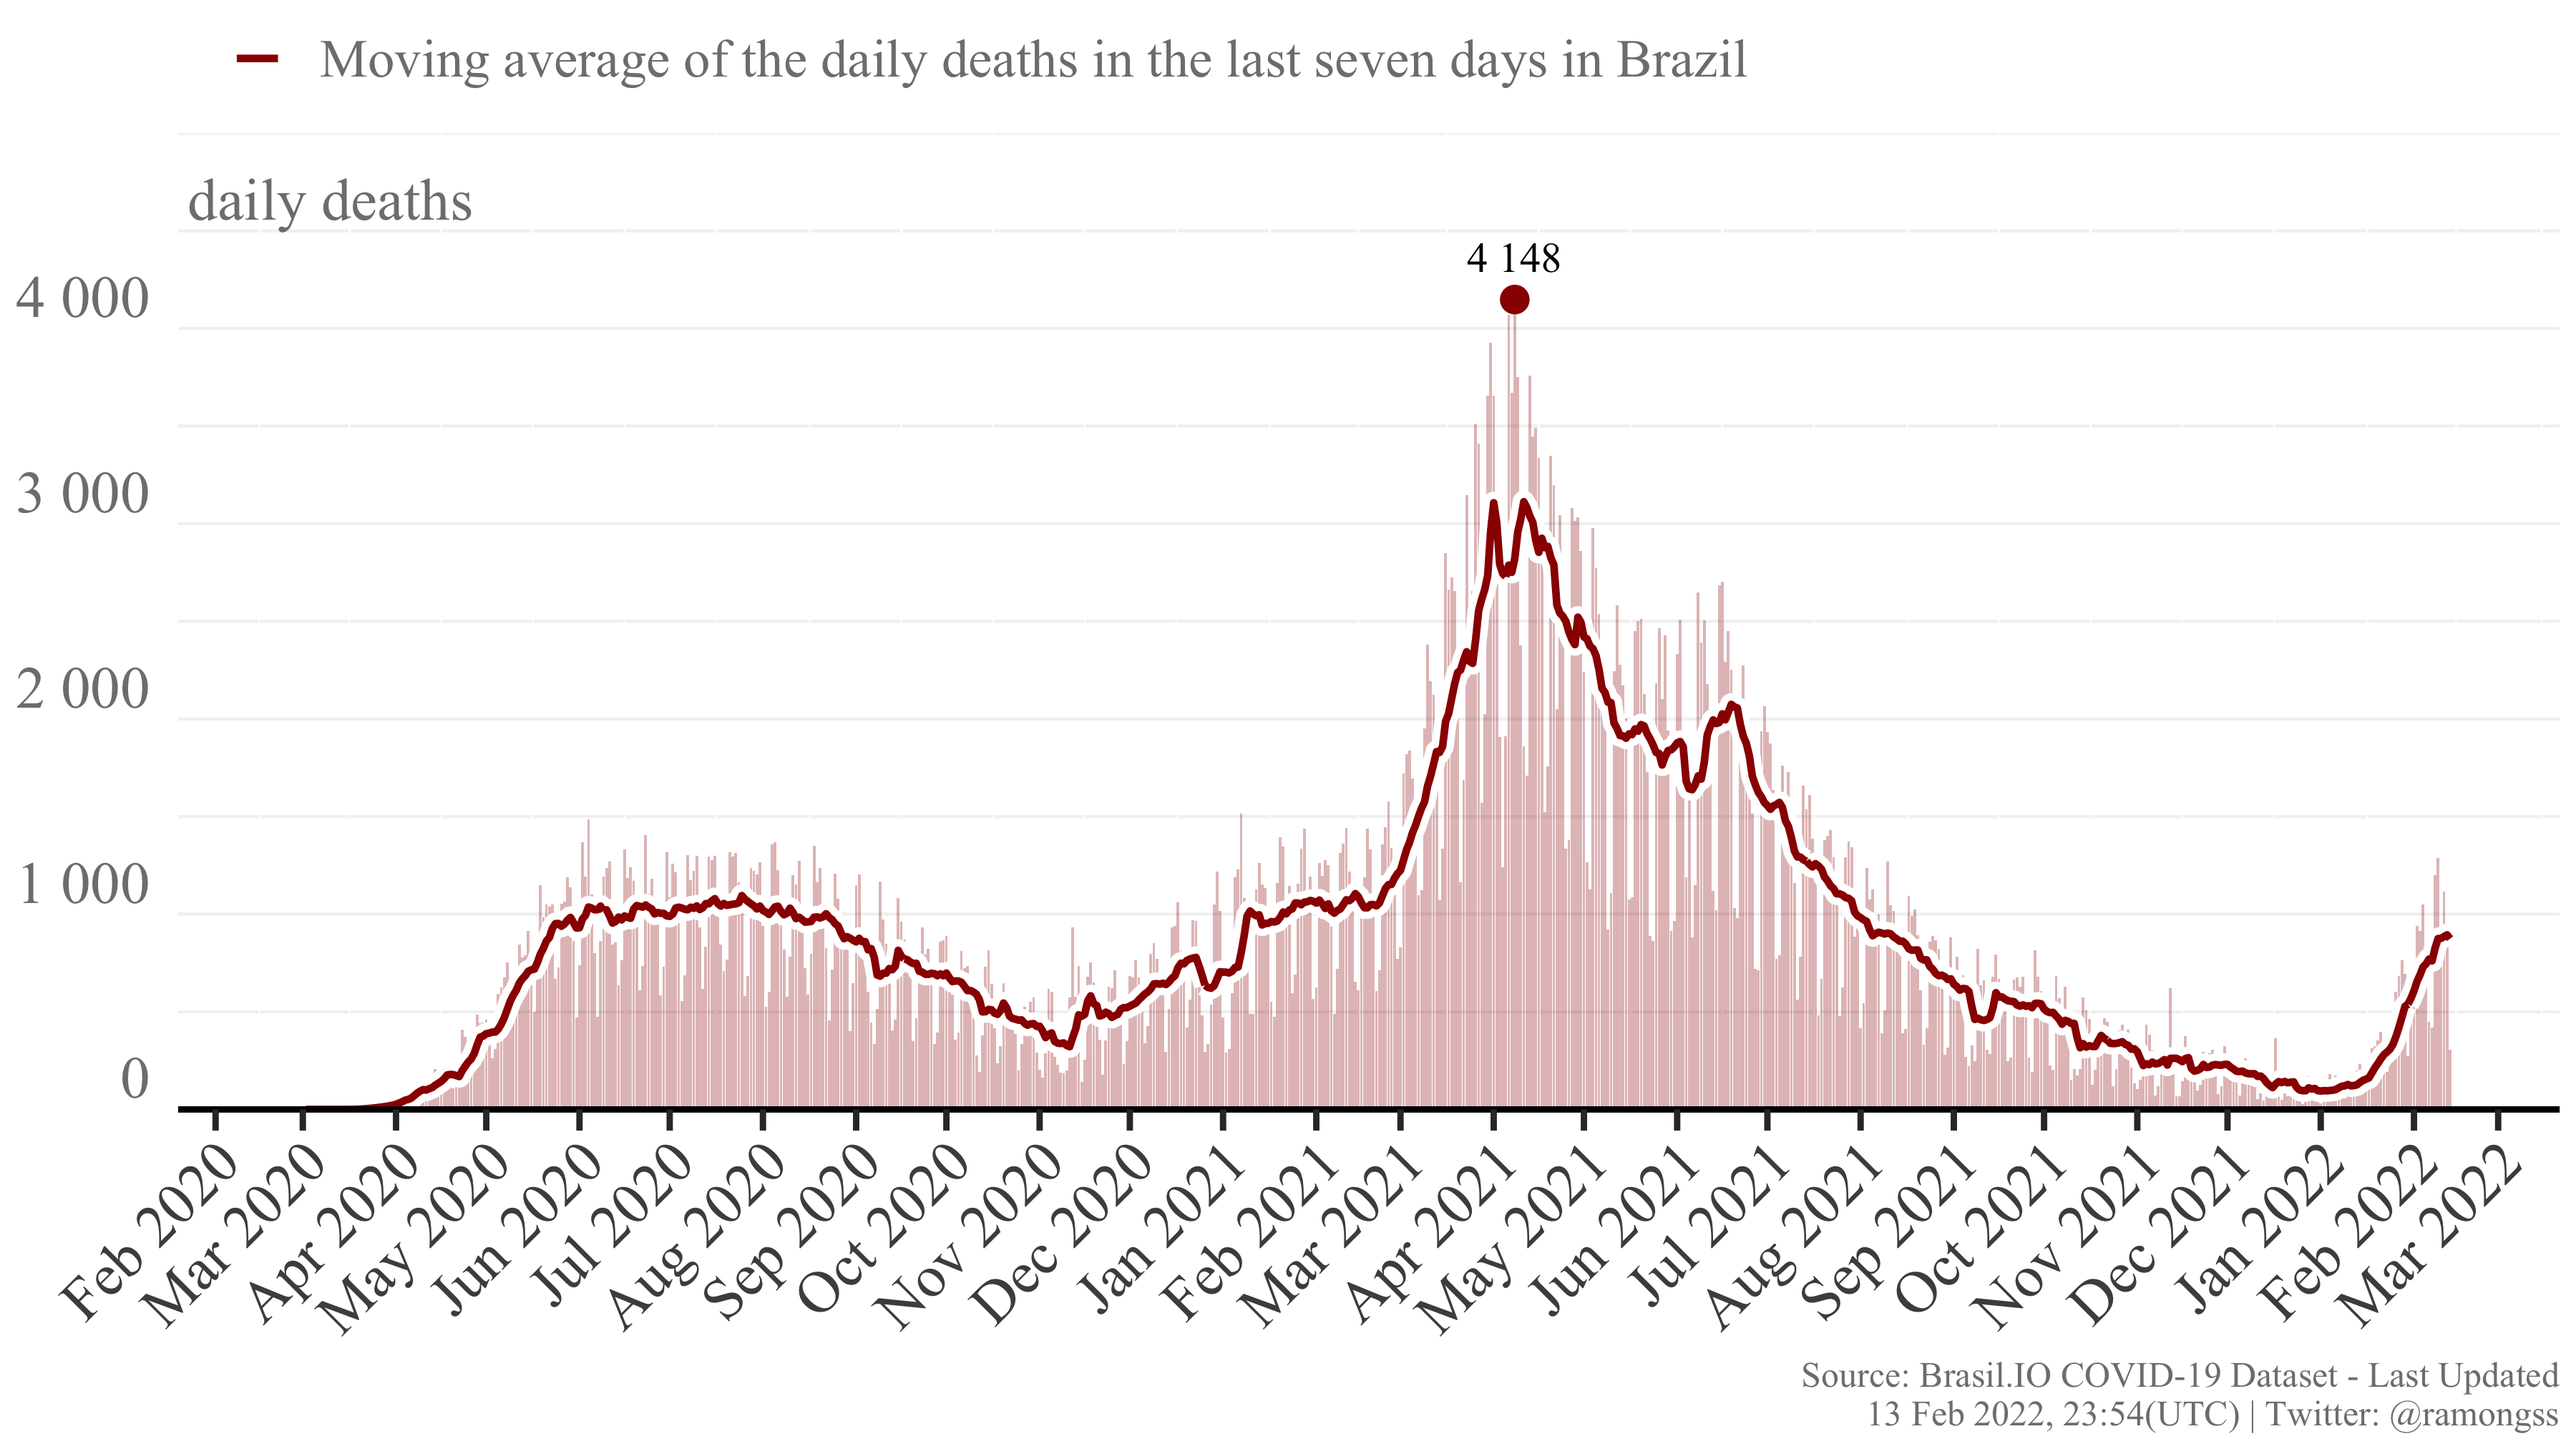
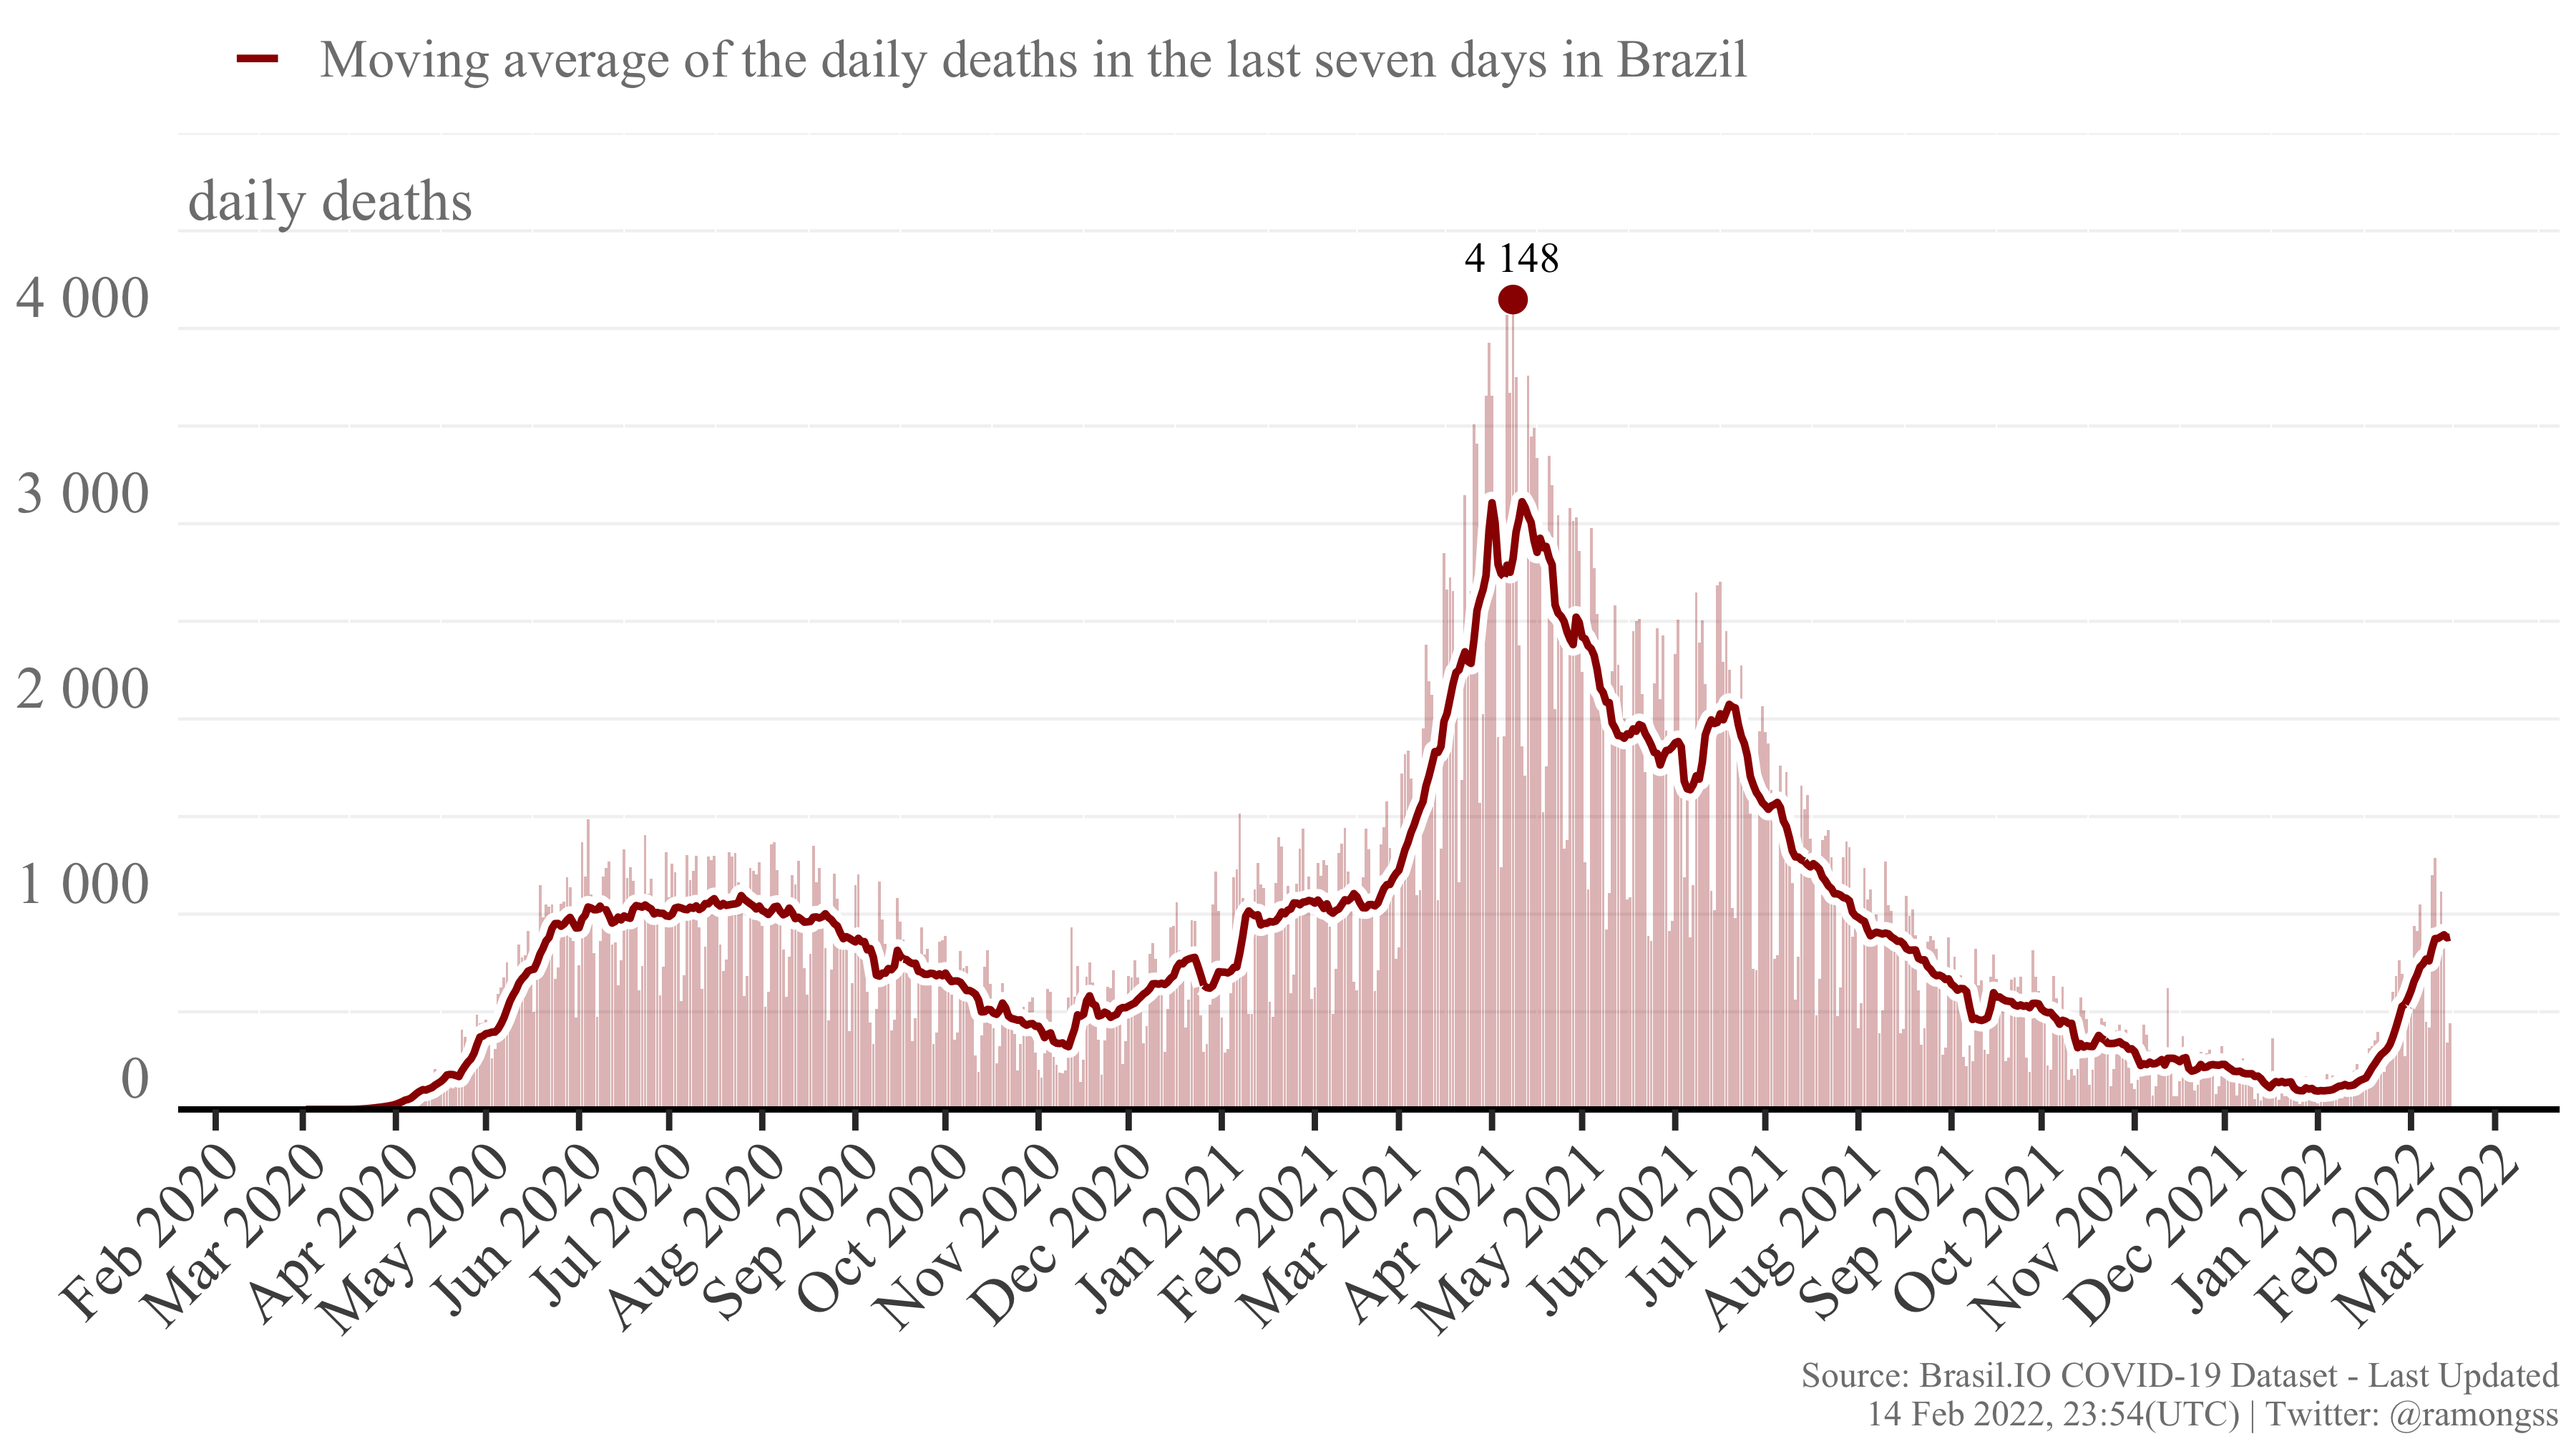
Re-build README.Rmd

diff --git a/README.md b/README.md
@@ -27,8 +27,8 @@ download_brasilio_table <- function(dataset = "covid19", table_name){
 
 ## COVID-19 Confirmed cases
 
-Currently, Brazil has a total of **27,492,904** confirmed cases at **13
-Feb, 2022**, with **53,145** new confirmed cases. The daily maximum
+Currently, Brazil has a total of **27,552,267** confirmed cases at **14
+Feb, 2022**, with **56,880** new confirmed cases. The daily maximum
 incidence was **285,451** confirmed cases at **03 Feb, 2022**. Here
 follows the Figure showing the confirmed case incidence as the bars, and
 the line as the moving average of the last 7 days.
@@ -37,8 +37,8 @@ the line as the moving average of the last 7 days.
 
 ## COVID-19 Deaths
 
-Currently, Brazil has a total of **638,673** deaths at **13 Feb, 2022**,
-with **307** new deaths. The daily maximum deaths incidence was
+Currently, Brazil has a total of **639,151** deaths at **14 Feb, 2022**,
+with **443** new deaths. The daily maximum deaths incidence was
 **4,148** deaths at **08 Apr, 2021**. Here follows the Figure showing
 the deaths incidence as the bars, and the line as the moving average of
 the last 7 days.
@@ -49,4 +49,4 @@ the last 7 days.
 
 This page is daily updated automatically using Github Actions.
 
-*Last update: 13 Feb 2022, 23:54 (UTC).*
+*Last update: 14 Feb 2022, 23:54 (UTC).*
